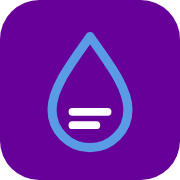
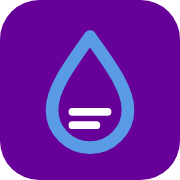
Ícone: contorno azul da gota mais grosso
Claude-Session: https://claude.ai/code/session_01ESb1p5Xq2bFNkHoQzvjQwJ

diff --git a/index.html b/index.html
@@ -17,7 +17,7 @@
   <link rel="preconnect" href="https://fonts.googleapis.com">
   <link rel="preconnect" href="https://fonts.gstatic.com" crossorigin>
   <link rel="stylesheet" href="https://fonts.googleapis.com/css2?family=Inter:wght@400;600;700&family=Space+Grotesk:wght@500;700&display=swap">
-  <link rel="stylesheet" href="css/app.css?v=19">
+  <link rel="stylesheet" href="css/app.css?v=20">
 </head>
 <body>
   <a class="skip" href="#main">Pular para o conteúdo</a>
@@ -351,6 +351,6 @@
     </div>
   </div>
 
-  <script src="js/app.js?v=19"></script>
+  <script src="js/app.js?v=20"></script>
 </body>
 </html>

diff --git a/sw.js b/sw.js
@@ -1,5 +1,5 @@
 /* Service worker: deixa o app funcionando offline e abre o app ao tocar na notificação. */
-const VERSION = "dm-v19";
+const VERSION = "dm-v20";
 const SHELL = [
   "./", "index.html", "css/app.css", "js/app.js", "manifest.webmanifest",
   "icons/icon.svg", "icons/icon-180.png", "icons/icon-192.png", "icons/icon-512.png", "icons/maskable-512.png"
